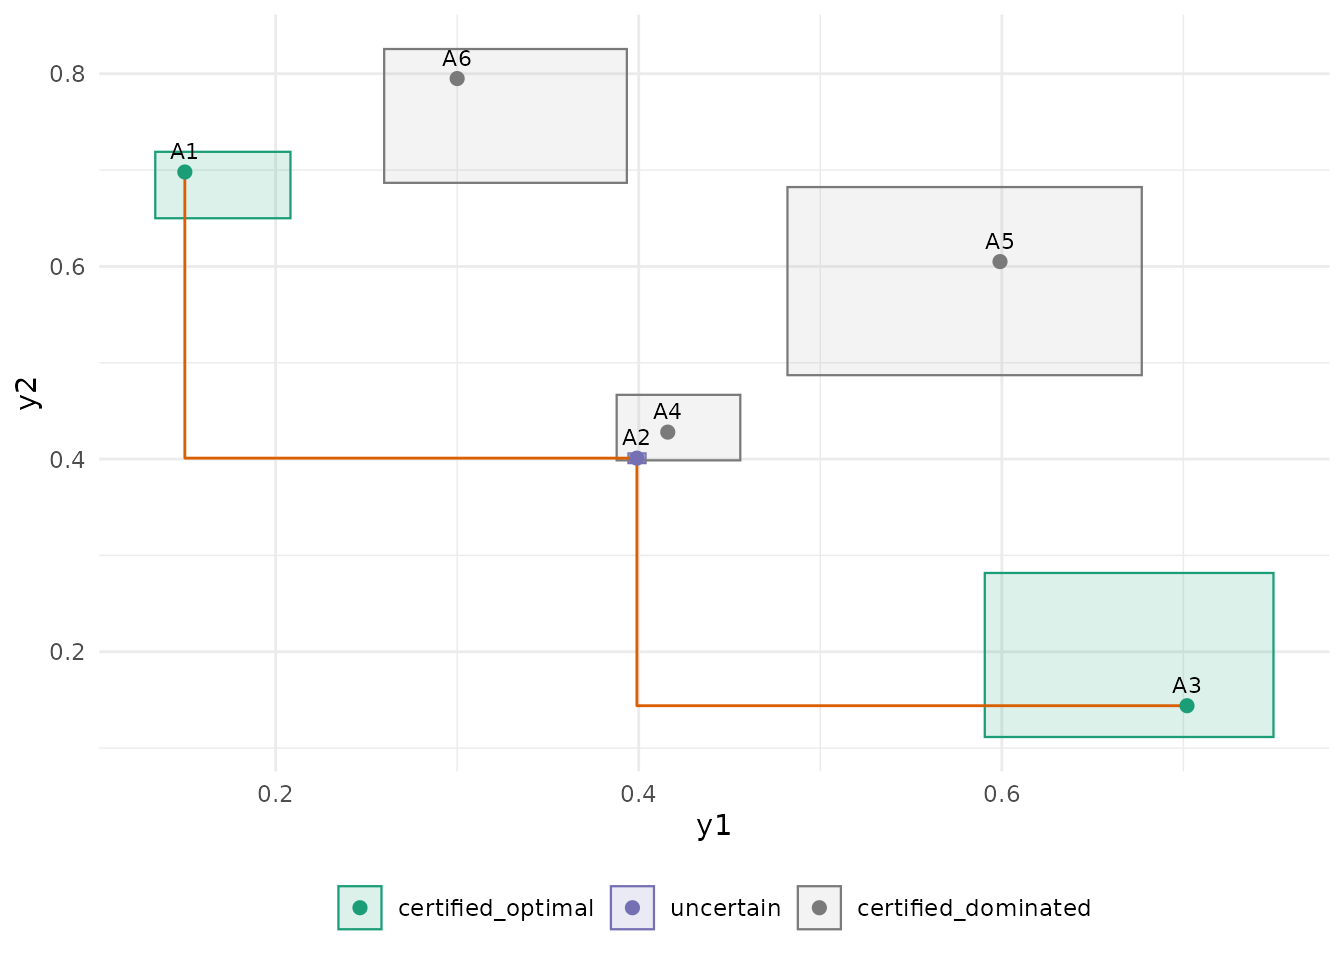
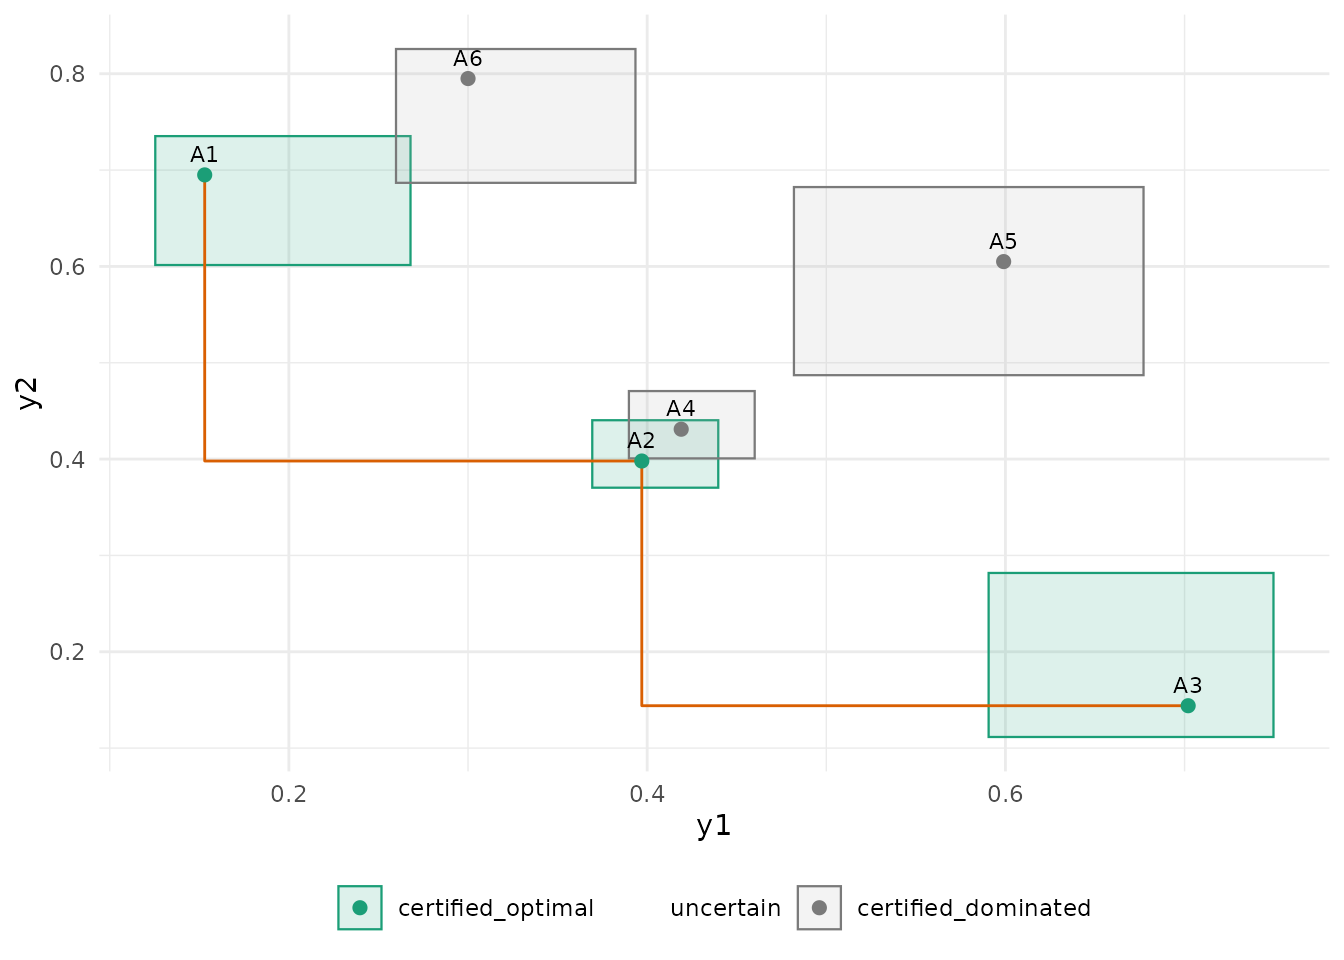
Deploying to gh-pages from @ castlaboratory/paretoinfer@c02b06c5686c01b76be63f2c0df1f024b257413b 🚀

diff --git a/articles/paretoinfer.html b/articles/paretoinfer.html
@@ -22,7 +22,7 @@
 
     <a class="navbar-brand me-2" href="../index.html">paretoinfer</a>
 
-    <small class="nav-text text-danger me-auto" data-bs-toggle="tooltip" data-bs-placement="bottom" title="Unreleased version">0.0.0.9000</small>
+    <small class="nav-text text-muted me-auto" data-bs-toggle="tooltip" data-bs-placement="bottom" title="Released version">0.1.0</small>
 
 
     <button class="navbar-toggler" type="button" data-bs-toggle="collapse" data-bs-target="#navbar" aria-controls="navbar" aria-expanded="false" aria-label="Toggle navigation">
@@ -138,11 +138,11 @@ alternative, two are clearly dominated. Noise is uniform with half-width
 <span><span class="co">#&gt; </span></span>
 <span><span class="co">#&gt; <span style="color: #00BBBB;">──</span> <span style="font-weight: bold;">Pareto identification</span> <span style="color: #00BBBB;">───────────────────────────────────────────────────────</span></span></span>
 <span><span class="co">#&gt; 6 alternatives, 2 objectives, alpha 0.05, epsilon 0.05, 0.05.</span></span>
-<span><span class="co">#&gt; 3000 evaluations, cost 3000.</span></span>
+<span><span class="co">#&gt; 645 evaluations, cost 645.</span></span>
 <span><span class="co">#&gt; • Estimated frontier: <span style="color: #0000BB;">"A1"</span>, <span style="color: #0000BB;">"A2"</span>, and <span style="color: #0000BB;">"A3"</span></span></span>
-<span><span class="co">#&gt; • Plausible Pareto set: <span style="color: #0000BB;">"A1"</span>, <span style="color: #0000BB;">"A2"</span>, and <span style="color: #0000BB;">"A3"</span> (certified optimal: A1, A3)</span></span>
+<span><span class="co">#&gt; • Plausible Pareto set: <span style="color: #0000BB;">"A1"</span>, <span style="color: #0000BB;">"A2"</span>, and <span style="color: #0000BB;">"A3"</span> (certified optimal: A1, A2, A3)</span></span>
 <span><span class="co">#&gt; • Certified dominated: A4, A5, A6</span></span>
-<span><span class="co">#&gt; <span style="color: #00BBBB;">ℹ</span> Stopped: max_evaluations.</span></span></code></pre></div>
+<span><span class="co">#&gt; <span style="color: #00BBBB;">ℹ</span> Stopped: identified.</span></span></code></pre></div>
 <p>The procedure evaluated every alternative five times, then repeatedly
 chose the most uncertain plausible alternative per unit cost, evaluated
 it five more times and updated, until every alternative was certified or
@@ -153,10 +153,10 @@ the budget ran out.</p>
 <span><span class="co">#&gt; <span style="color: #949494;"># A tibble: 6 × 7</span></span></span>
 <span><span class="co">#&gt;   alternative status      on_estimated_frontier dominated_by n_evaluations  cost</span></span>
 <span><span class="co">#&gt;   <span style="color: #949494; font-style: italic;">&lt;chr&gt;</span>       <span style="color: #949494; font-style: italic;">&lt;chr&gt;</span>       <span style="color: #949494; font-style: italic;">&lt;lgl&gt;</span>                 <span style="color: #949494; font-style: italic;">&lt;chr&gt;</span>                <span style="color: #949494; font-style: italic;">&lt;int&gt;</span> <span style="color: #949494; font-style: italic;">&lt;dbl&gt;</span></span></span>
-<span><span class="co">#&gt; <span style="color: #BCBCBC;">1</span> A1          certified_… TRUE                  <span style="color: #BB0000;">NA</span>                     180   180</span></span>
-<span><span class="co">#&gt; <span style="color: #BCBCBC;">2</span> A2          uncertain   TRUE                  <span style="color: #BB0000;">NA</span>                    <span style="text-decoration: underline;">2</span>430  <span style="text-decoration: underline;">2</span>430</span></span>
+<span><span class="co">#&gt; <span style="color: #BCBCBC;">1</span> A1          certified_… TRUE                  <span style="color: #BB0000;">NA</span>                      85    85</span></span>
+<span><span class="co">#&gt; <span style="color: #BCBCBC;">2</span> A2          certified_… TRUE                  <span style="color: #BB0000;">NA</span>                     175   175</span></span>
 <span><span class="co">#&gt; <span style="color: #BCBCBC;">3</span> A3          certified_… TRUE                  <span style="color: #BB0000;">NA</span>                      70    70</span></span>
-<span><span class="co">#&gt; <span style="color: #BCBCBC;">4</span> A4          certified_… FALSE                 A2                     180   180</span></span>
+<span><span class="co">#&gt; <span style="color: #BCBCBC;">4</span> A4          certified_… FALSE                 A2                     175   175</span></span>
 <span><span class="co">#&gt; <span style="color: #BCBCBC;">5</span> A5          certified_… FALSE                 A2                      55    55</span></span>
 <span><span class="co">#&gt; <span style="color: #BCBCBC;">6</span> A6          certified_… FALSE                 A1                      85    85</span></span>
 <span><span class="co">#&gt; <span style="color: #949494;"># ℹ 1 more variable: cs_empty &lt;lgl&gt;</span></span></span></code></pre></div>
@@ -231,9 +231,11 @@ does not depend on it.</p>
 <span><span class="co">#&gt; intersections at every time, and every certificate below is then true.</span></span>
 <span><span class="co">#&gt; • Dominance is epsilon-dominance with epsilon = (0.05, 0.05): j dominates k</span></span>
 <span><span class="co">#&gt; when mu[j] &lt;= mu[k] + epsilon in every objective.</span></span>
+<span><span class="co">#&gt; • Certified optimal means not epsilon-dominated by any other plausible</span></span>
+<span><span class="co">#&gt; alternative; epsilon-ties keep their earliest member in design order.</span></span>
 <span><span class="co">#&gt; • The estimated frontier is a point estimate without a certificate; the</span></span>
 <span><span class="co">#&gt; plausible set and the certified sets carry the guarantee.</span></span>
-<span><span class="co">#&gt; <span style="font-style: italic;">paretoinfer 0.0.0.9000, seqbench 0.1.0, R version 4.6.1 (2026-06-24)</span></span></span>
+<span><span class="co">#&gt; <span style="font-style: italic;">paretoinfer 0.1.0, seqbench 0.1.0, R version 4.6.1 (2026-06-24)</span></span></span>
 <span><span class="fu"><a href="https://generics.r-lib.org/reference/glance.html" class="external-link">glance</a></span><span class="op">(</span><span class="va">state</span><span class="op">)</span></span>
 <span><span class="co">#&gt; <span style="color: #949494;"># A tibble: 1 × 12</span></span></span>
 <span><span class="co">#&gt;       K     m alpha n_evaluations total_cost n_frontier n_plausible</span></span>

diff --git a/news/index.html b/news/index.html
@@ -7,7 +7,7 @@
 
     <a class="navbar-brand me-2" href="../index.html">paretoinfer</a>
 
-    <small class="nav-text text-danger me-auto" data-bs-toggle="tooltip" data-bs-placement="bottom" title="Unreleased version">0.0.0.9000</small>
+    <small class="nav-text text-muted me-auto" data-bs-toggle="tooltip" data-bs-placement="bottom" title="Released version">0.1.0</small>
 
 
     <button class="navbar-toggler" type="button" data-bs-toggle="collapse" data-bs-target="#navbar" aria-controls="navbar" aria-expanded="false" aria-label="Toggle navigation">
@@ -39,10 +39,19 @@
     </div>
 
     <div class="section level2">
-<h2 class="pkg-version" data-toc-text="0.0.0.9000" id="paretoinfer-0009000">paretoinfer 0.0.0.9000<a class="anchor" aria-label="anchor" href="#paretoinfer-0009000"></a></h2>
-<ul><li>First implementation: <code><a href="../reference/pareto_design.html">pareto_design()</a></code> (finite alternatives, minimised objectives with known bounds, epsilon-dominance, alpha split over the K x m confidence sequences, budget), <code><a href="../reference/initialize_pareto.html">initialize_pareto()</a></code>, <code><a href="../reference/update_objectives.html">update_objectives()</a></code>, <code><a href="../reference/plausible_pareto_set.html">plausible_pareto_set()</a></code> (estimated frontier, plausible set, certified optimal, certified dominated), <code><a href="../reference/choose_next_evaluation.html">choose_next_evaluation()</a></code>, <code><a href="../reference/pareto_run.html">pareto_run()</a></code>, <code><a href="../reference/pareto_report.html">pareto_report()</a></code>; S3 class <code>paretoinfer_state</code> with <code>print</code>, <code>summary</code>, <code>tidy</code>, <code>glance</code>, <code>autoplot</code> / <code><a href="../reference/autoplot.paretoinfer_state.html">plot_uncertain_frontier()</a></code>.</li>
-<li>Confidence sequences come from <code>seqbench</code> (betting by default).</li>
-<li>Getting-started vignette; pkgdown site; hex logo.</li>
+<h2 class="pkg-version" data-toc-text="0.1.0" id="paretoinfer-010">paretoinfer 0.1.0<a class="anchor" aria-label="anchor" href="#paretoinfer-010"></a></h2>
+<p>First CRAN release.</p>
+<ul><li>
+<code><a href="../reference/pareto_design.html">pareto_design()</a></code>: finite alternatives, minimised objectives with known bounds, epsilon-dominance, alpha shared by a union bound over the K x m confidence sequences, boundary from <code>seqbench</code>, cost and budget.</li>
+<li>
+<code><a href="../reference/initialize_pareto.html">initialize_pareto()</a></code>, <code><a href="../reference/update_objectives.html">update_objectives()</a></code>: one anytime-valid confidence sequence per alternative and objective, running intersections, auditable history and stopping reason.</li>
+<li>
+<code><a href="../reference/plausible_pareto_set.html">plausible_pareto_set()</a></code>: estimated frontier, plausible Pareto set, certified optimal and certified dominated alternatives (each with the alternative that dominates it); epsilon-ties keep one representative.</li>
+<li>
+<code><a href="../reference/choose_next_evaluation.html">choose_next_evaluation()</a></code> and <code><a href="../reference/pareto_run.html">pareto_run()</a></code>: adaptive choice of the next alternative by confidence-box width per unit cost, and a run loop with a user simulator.</li>
+<li>
+<code><a href="../reference/pareto_report.html">pareto_report()</a></code>; S3 class <code>paretoinfer_state</code> with <code>print</code>, <code>summary</code>, <code>tidy</code>, <code>glance</code>, <code>autoplot</code> / <code><a href="../reference/autoplot.paretoinfer_state.html">plot_uncertain_frontier()</a></code>.</li>
+<li>Getting-started vignette.</li>
 </ul></div>
   </main></div>
 

diff --git a/reference/pareto_report.html b/reference/pareto_report.html
@@ -15,7 +15,7 @@ versions."><meta property="og:image" content="https://castlaboratory.github.io/p
 
     <a class="navbar-brand me-2" href="../index.html">paretoinfer</a>
 
-    <small class="nav-text text-danger me-auto" data-bs-toggle="tooltip" data-bs-placement="bottom" title="Unreleased version">0.0.0.9000</small>
+    <small class="nav-text text-muted me-auto" data-bs-toggle="tooltip" data-bs-placement="bottom" title="Released version">0.1.0</small>
 
 
     <button class="navbar-toggler" type="button" data-bs-toggle="collapse" data-bs-target="#navbar" aria-controls="navbar" aria-expanded="false" aria-label="Toggle navigation">
@@ -103,9 +103,11 @@ versions.</p>
 <span class="r-msg co"><span class="r-pr">#&gt;</span> intersections at every time, and every certificate below is then true.</span>
 <span class="r-msg co"><span class="r-pr">#&gt;</span> • Dominance is epsilon-dominance with epsilon = (0.1, 0.1): j dominates k when</span>
 <span class="r-msg co"><span class="r-pr">#&gt;</span> mu[j] &lt;= mu[k] + epsilon in every objective.</span>
+<span class="r-msg co"><span class="r-pr">#&gt;</span> • Certified optimal means not epsilon-dominated by any other plausible</span>
+<span class="r-msg co"><span class="r-pr">#&gt;</span> alternative; epsilon-ties keep their earliest member in design order.</span>
 <span class="r-msg co"><span class="r-pr">#&gt;</span> • The estimated frontier is a point estimate without a certificate; the</span>
 <span class="r-msg co"><span class="r-pr">#&gt;</span> plausible set and the certified sets carry the guarantee.</span>
-<span class="r-msg co"><span class="r-pr">#&gt;</span> <span style="font-style: italic;">paretoinfer 0.0.0.9000, seqbench 0.1.0, R version 4.6.1 (2026-06-24)</span></span>
+<span class="r-msg co"><span class="r-pr">#&gt;</span> <span style="font-style: italic;">paretoinfer 0.1.0, seqbench 0.1.0, R version 4.6.1 (2026-06-24)</span></span>
 </code></pre></div>
     </div>
   </main><aside class="col-md-3"><nav id="toc" aria-label="Table of contents"><h2>On this page</h2>

diff --git a/authors.html b/authors.html
@@ -7,7 +7,7 @@
 
     <a class="navbar-brand me-2" href="index.html">paretoinfer</a>
 
-    <small class="nav-text text-danger me-auto" data-bs-toggle="tooltip" data-bs-placement="bottom" title="Unreleased version">0.0.0.9000</small>
+    <small class="nav-text text-muted me-auto" data-bs-toggle="tooltip" data-bs-placement="bottom" title="Released version">0.1.0</small>
 
 
     <button class="navbar-toggler" type="button" data-bs-toggle="collapse" data-bs-target="#navbar" aria-controls="navbar" aria-expanded="false" aria-label="Toggle navigation">
@@ -56,18 +56,15 @@
 
     <div class="section level2">
       <h2 id="citation">Citation</h2>
-      <p><small class="dont-index">Source: <a href="https://github.com/castlaboratory/paretoinfer/blob/main/DESCRIPTION" class="external-link"><code>DESCRIPTION</code></a></small></p>
+      <p><small class="dont-index">Source: <a href="https://github.com/castlaboratory/paretoinfer/blob/main/inst/CITATION" class="external-link"><code>inst/CITATION</code></a></small></p>
 
-      <p>Leite A, Ospina R, Ferraz C (2026).
-<em>paretoinfer: Sequential Identification of Approximately Pareto-Optimal Alternatives under Noise</em>.
-R package version 0.0.0.9000, <a href="https://castlaboratory.github.io/paretoinfer/">https://castlaboratory.github.io/paretoinfer/</a>.
-</p>
+      <p>Leite, A., Ospina, R., &amp; Ferraz, C. (2026). paretoinfer: Sequential Identification of Approximately Pareto-Optimal Alternatives under Noise. R package version 0.1.0. https://github.com/castlaboratory/paretoinfer</p>
       <pre>@Manual{,
   title = {paretoinfer: Sequential Identification of Approximately Pareto-Optimal Alternatives under Noise},
   author = {André Leite and Raydonal Ospina and Cristiano Ferraz},
   year = {2026},
-  note = {R package version 0.0.0.9000},
-  url = {https://castlaboratory.github.io/paretoinfer/},
+  note = {R package version 0.1.0},
+  url = {https://github.com/castlaboratory/paretoinfer},
 }</pre>
     </div>
 

diff --git a/reference/pareto_design.html b/reference/pareto_design.html
@@ -13,7 +13,7 @@ boundary and the budget."><meta property="og:image" content="https://castlaborat
 
     <a class="navbar-brand me-2" href="../index.html">paretoinfer</a>
 
-    <small class="nav-text text-danger me-auto" data-bs-toggle="tooltip" data-bs-placement="bottom" title="Unreleased version">0.0.0.9000</small>
+    <small class="nav-text text-muted me-auto" data-bs-toggle="tooltip" data-bs-placement="bottom" title="Released version">0.1.0</small>
 
 
     <button class="navbar-toggler" type="button" data-bs-toggle="collapse" data-bs-target="#navbar" aria-controls="navbar" aria-expanded="false" aria-label="Toggle navigation">
@@ -138,9 +138,13 @@ probability at least <code>1 - alpha</code> every true mean lies in its running
 intersection at every time. On that event every certificate the package
 issues is true: an alternative reported as <em>certified dominated</em> is truly
 epsilon-dominated by the alternative named, and one reported as <em>certified
-optimal</em> is truly not epsilon-dominated by any other. The guarantee holds
-under optional stopping, adaptive choice of what to evaluate next and
-arbitrary dependence between the objectives of one evaluation.</p>
+optimal</em> is truly not epsilon-dominated by any other plausible alternative.
+When two alternatives certifiably epsilon-dominate each other (an
+epsilon-tie), only the later one in design order is discarded, so every tie
+keeps one representative; the discarded one is still truly epsilon-dominated
+by the alternative named. The guarantee holds under optional stopping,
+adaptive choice of what to evaluate next and arbitrary dependence between
+the objectives of one evaluation.</p>
     </div>
     <div class="section level2">
     <h2 id="references">References<a class="anchor" aria-label="anchor" href="#references"></a></h2>

diff --git a/reference/plausible_pareto_set.html b/reference/plausible_pareto_set.html
@@ -7,7 +7,7 @@
 
     <a class="navbar-brand me-2" href="../index.html">paretoinfer</a>
 
-    <small class="nav-text text-danger me-auto" data-bs-toggle="tooltip" data-bs-placement="bottom" title="Unreleased version">0.0.0.9000</small>
+    <small class="nav-text text-muted me-auto" data-bs-toggle="tooltip" data-bs-placement="bottom" title="Released version">0.1.0</small>
 
 
     <button class="navbar-toggler" type="button" data-bs-toggle="collapse" data-bs-target="#navbar" aria-controls="navbar" aria-expanded="false" aria-label="Toggle navigation">
@@ -61,7 +61,8 @@
     <p>A list of class <code>pareto_sets</code> with <code>frontier</code> (alternatives whose
 point estimates are not dominated by the estimate of any other plausible
 alternative), <code>plausible</code> (not certified dominated), <code>certified_optimal</code>
-(plausible and certified not epsilon-dominated by any other),
+(plausible and certified not epsilon-dominated by any other plausible
+alternative),
 <code>uncertain</code> (plausible but not certified), <code>dominated</code> (certified
 epsilon-dominated), <code>identified</code> (no uncertain alternative left) and
 <code>table</code>, a tibble with one row per alternative: <code>status</code>,

diff --git a/index.html b/index.html
@@ -25,7 +25,7 @@
 
     <a class="navbar-brand me-2" href="index.html">paretoinfer</a>
 
-    <small class="nav-text text-danger me-auto" data-bs-toggle="tooltip" data-bs-placement="bottom" title="Unreleased version">0.0.0.9000</small>
+    <small class="nav-text text-muted me-auto" data-bs-toggle="tooltip" data-bs-placement="bottom" title="Released version">0.1.0</small>
 
 
     <button class="navbar-toggler" type="button" data-bs-toggle="collapse" data-bs-target="#navbar" aria-controls="navbar" aria-expanded="false" aria-label="Toggle navigation">
@@ -159,13 +159,7 @@
 </ul>
 </div>
 
-<div class="dev-status">
-<h2 data-toc-skip>Dev status</h2>
-<ul class="list-unstyled">
-<li><a href="https://github.com/castlaboratory/paretoinfer/actions/workflows/R-CMD-check.yaml" class="external-link"><img src="https://github.com/castlaboratory/paretoinfer/actions/workflows/R-CMD-check.yaml/badge.svg" alt="R-CMD-check"></a></li>
-<li><a href="https://lifecycle.r-lib.org/articles/stages.html#experimental" class="external-link"><img src="https://img.shields.io/badge/lifecycle-experimental-orange.svg" alt="Lifecycle: experimental"></a></li>
-</ul>
-</div>
+
 
   </aside>
 </div>

diff --git a/reference/autoplot.paretoinfer_state.html b/reference/autoplot.paretoinfer_state.html
@@ -15,7 +15,7 @@ in its box at every time. Alternatives are coloured by status."><meta property="
 
     <a class="navbar-brand me-2" href="../index.html">paretoinfer</a>
 
-    <small class="nav-text text-danger me-auto" data-bs-toggle="tooltip" data-bs-placement="bottom" title="Unreleased version">0.0.0.9000</small>
+    <small class="nav-text text-muted me-auto" data-bs-toggle="tooltip" data-bs-placement="bottom" title="Released version">0.1.0</small>
 
 
     <button class="navbar-toggler" type="button" data-bs-toggle="collapse" data-bs-target="#navbar" aria-controls="navbar" aria-expanded="false" aria-label="Toggle navigation">

diff --git a/reference/choose_next_evaluation.html b/reference/choose_next_evaluation.html
@@ -19,7 +19,7 @@ which holds for any adaptive choice."><meta property="og:image" content="https:/
 
     <a class="navbar-brand me-2" href="../index.html">paretoinfer</a>
 
-    <small class="nav-text text-danger me-auto" data-bs-toggle="tooltip" data-bs-placement="bottom" title="Unreleased version">0.0.0.9000</small>
+    <small class="nav-text text-muted me-auto" data-bs-toggle="tooltip" data-bs-placement="bottom" title="Released version">0.1.0</small>
 
 
     <button class="navbar-toggler" type="button" data-bs-toggle="collapse" data-bs-target="#navbar" aria-controls="navbar" aria-expanded="false" aria-label="Toggle navigation">

diff --git a/reference/paretoinfer-package.html b/reference/paretoinfer-package.html
@@ -11,7 +11,7 @@ Sequential identification of epsilon-Pareto-optimal alternatives among a finite 
 
     <a class="navbar-brand me-2" href="../index.html">paretoinfer</a>
 
-    <small class="nav-text text-danger me-auto" data-bs-toggle="tooltip" data-bs-placement="bottom" title="Unreleased version">0.0.0.9000</small>
+    <small class="nav-text text-muted me-auto" data-bs-toggle="tooltip" data-bs-placement="bottom" title="Released version">0.1.0</small>
 
 
     <button class="navbar-toggler" type="button" data-bs-toggle="collapse" data-bs-target="#navbar" aria-controls="navbar" aria-expanded="false" aria-label="Toggle navigation">

diff --git a/reference/tidy.paretoinfer_state.html b/reference/tidy.paretoinfer_state.html
@@ -11,7 +11,7 @@ status of the alternative."><meta property="og:image" content="https://castlabor
 
     <a class="navbar-brand me-2" href="../index.html">paretoinfer</a>
 
-    <small class="nav-text text-danger me-auto" data-bs-toggle="tooltip" data-bs-placement="bottom" title="Unreleased version">0.0.0.9000</small>
+    <small class="nav-text text-muted me-auto" data-bs-toggle="tooltip" data-bs-placement="bottom" title="Released version">0.1.0</small>
 
 
     <button class="navbar-toggler" type="button" data-bs-toggle="collapse" data-bs-target="#navbar" aria-controls="navbar" aria-expanded="false" aria-label="Toggle navigation">

diff --git a/reference/update_objectives.html b/reference/update_objectives.html
@@ -11,7 +11,7 @@ updated and the three sets are recomputed."><meta property="og:image" content="h
 
     <a class="navbar-brand me-2" href="../index.html">paretoinfer</a>
 
-    <small class="nav-text text-danger me-auto" data-bs-toggle="tooltip" data-bs-placement="bottom" title="Unreleased version">0.0.0.9000</small>
+    <small class="nav-text text-muted me-auto" data-bs-toggle="tooltip" data-bs-placement="bottom" title="Released version">0.1.0</small>
 
 
     <button class="navbar-toggler" type="button" data-bs-toggle="collapse" data-bs-target="#navbar" aria-controls="navbar" aria-expanded="false" aria-label="Toggle navigation">
